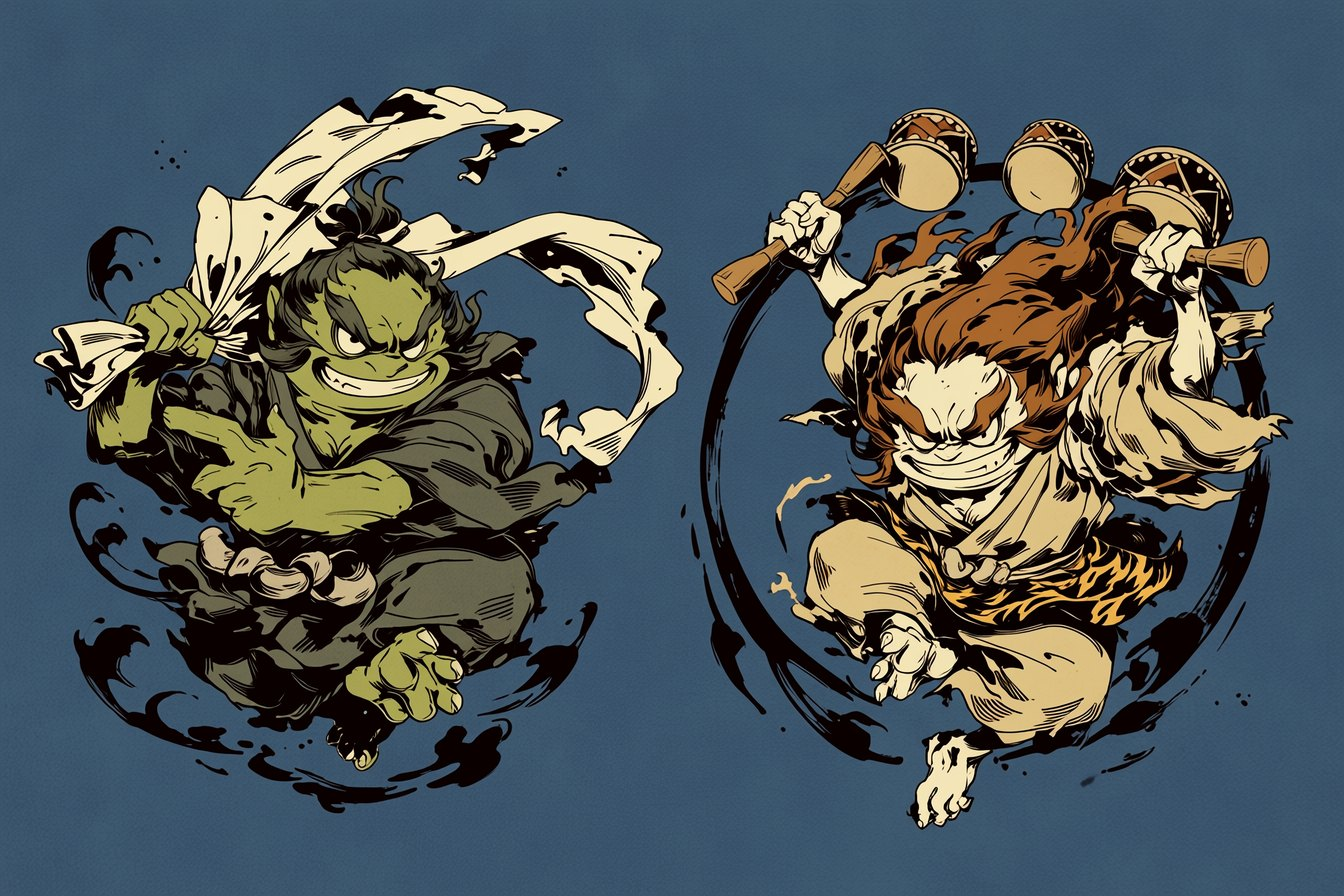
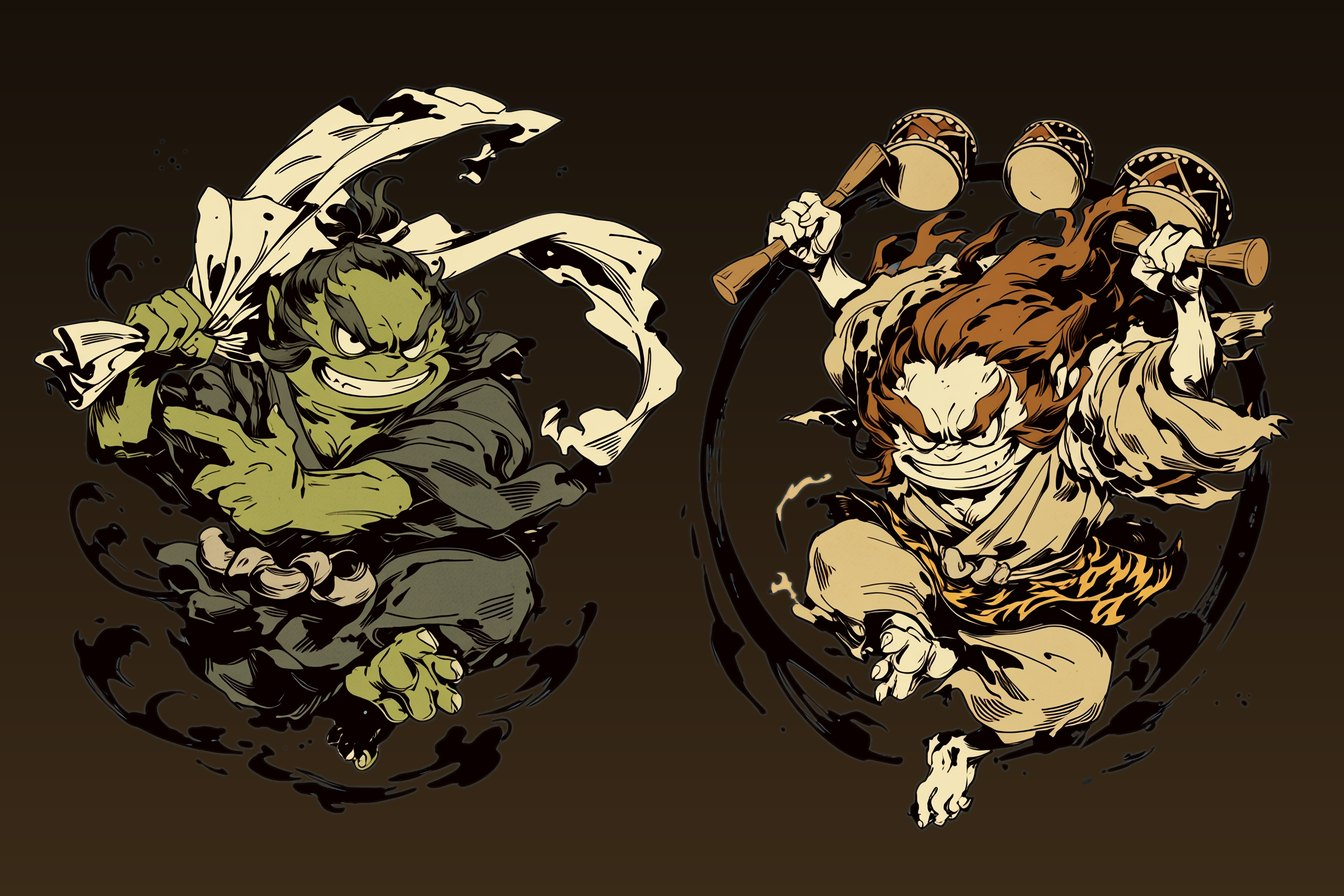
タイトルのキービジュアル組み込み・風神雷神の背景差し替え・1001体の豆知識追加
- タイトル画面をキービジュアル全面背景に変更し、テキストのタイトル表記を非表示に
- 風神雷神の青背景をキーイングして、お堂調の暗いグラデーションに合成(28部衆と統一)
- エンディングに「中尊を合わせて1001体」の豆知識を1行追加

Claude-Session: https://claude.ai/code/session_01TzzP2BVi5C45ym6yoLjZVj

diff --git a/index.html b/index.html
@@ -103,6 +103,13 @@
   #screen-title .kana { font-size: 14px; color: var(--gold-dim); letter-spacing: .5em; margin-bottom: 40px; }
   #screen-title .menu { display: flex; flex-direction: column; gap: 14px; align-items: center; }
   #screen-title .note { margin-top: 30px; font-size: 12px; color: #9a8a6e; line-height: 1.9; text-align: center; }
+  /* キービジュアル使用時: タイトル文字は画像側にあるためテキスト類を隠し、ボタンを下部へ */
+  #screen-title.has-title-image { justify-content: flex-end; padding-bottom: 34px; }
+  #screen-title.has-title-image .lanterns,
+  #screen-title.has-title-image .subtitle,
+  #screen-title.has-title-image h1,
+  #screen-title.has-title-image .kana { display: none; }
+  #screen-title.has-title-image .note { color: #c9b896; text-shadow: 0 1px 4px rgba(0,0,0,.9); margin-top: 18px; }
 
   /* ============ 制作パート ============ */
   #screen-craft { padding: 40px; }
@@ -285,7 +292,7 @@
 
   <!-- ============ タイトル画面 ============ -->
   <section id="screen-title" class="screen active">
-    <div><span class="lantern"></span><span class="lantern"></span><span class="lantern"></span></div>
+    <div class="lanterns"><span class="lantern"></span><span class="lantern"></span><span class="lantern"></span></div>
     <p class="subtitle" style="margin-top:26px;">三十三間堂 奉納協力ゲーム</p>
     <h1>千一体目の観音さま</h1>
     <p class="kana">(仮)</p>
@@ -432,6 +439,7 @@ const IMAGE_PATHS = {
   busshi:       "img/busshi.png",          // 語り手の仏師の立ち絵(制作パート)
   kannonPlayer: "img/kannon_player.png",   // プレイヤーが動かす観音さま(運搬パート)
   kannonBg:     "img/kannon_bg.png",       // 背景に立ち並ぶ千体観音(運搬パート)
+  titleBg:      "img/bg_title.jpg",        // タイトル画面のキービジュアル(タイトル文字入り)
   eventFujin:   "img/bg_fujin_raijin.jpg", // イベント1「風神・雷神」の背景
   event28:      "img/bg_28bushu.jpg",      // イベント2「二十八部衆」の背景
   goalBg:       "img/bg_goal.jpg",         // ゴール直後・奉納シーンの背景
@@ -540,6 +548,7 @@ const NOVEL_ENDING = [
   "千一体目の観音さまが、静かに列に加わりました。",
   "柳は棟木に、髑髏は観音さまの胎内へ。——その日から、上皇さまの頭痛はぴたりと止んだと伝えられています。",
   "三十三間堂が「頭痛山平癒寺(ずつうさんへいゆじ)」とも呼ばれるのは、この伝説から。今でも毎年お正月には、柳の枝で清めた水を頭に注ぐ「楊枝(やなぎ)のお加持」が行われているんですよ。",
+  "ちなみに——中尊さまを合わせれば、お堂にはもともと1001体。「じゃあ、自分たちのは1002体目?」……いえいえ、中尊さまは別格。千体の列に加わるのは、あなたたちの観音さまが千一体目、なんですね。",
 ];
 
 /* ================================================================
@@ -608,6 +617,15 @@ function applyImages() {
     img.src = IMAGE_PATHS.kannonPlayer;
     img.style.display = "block";
     document.getElementById("ending-statue-emoji").style.display = "none";
+  }
+  if (IMAGE_PATHS.titleBg) {
+    // タイトルのキービジュアル(タイトル文字は画像側に入っているのでテキストは隠す)
+    const sc = document.getElementById("screen-title");
+    sc.style.backgroundImage =
+      `linear-gradient(180deg, rgba(10,6,3,0) 55%, rgba(10,6,3,.72) 100%), url("${IMAGE_PATHS.titleBg}")`;
+    sc.style.backgroundSize = "cover";
+    sc.style.backgroundPosition = "center top";
+    sc.classList.add("has-title-image");
   }
   if (IMAGE_PATHS.goalBg) {
     // ゴール直後・奉納シーンの背景(中尊のプレースホルダーは隠す)
